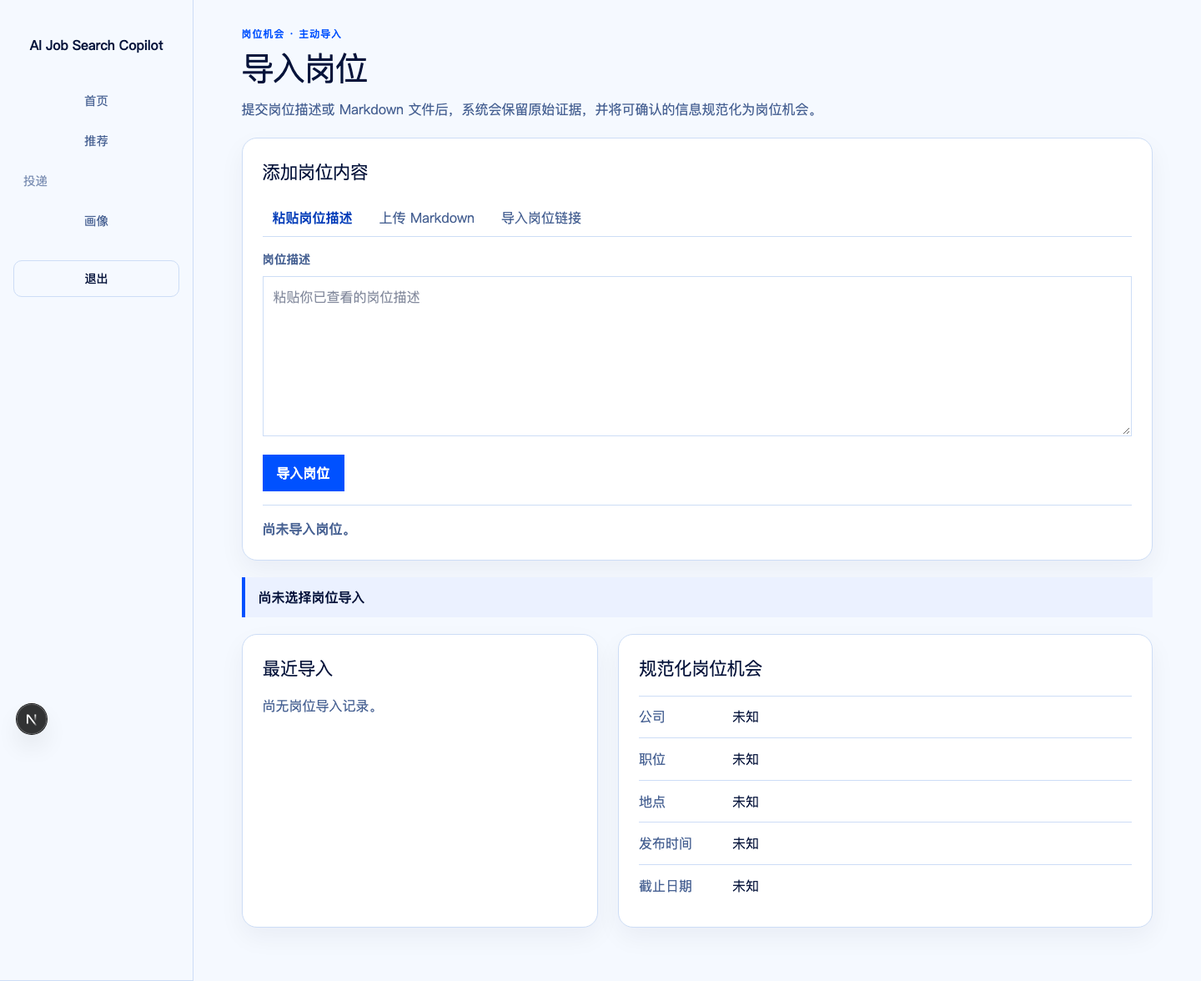
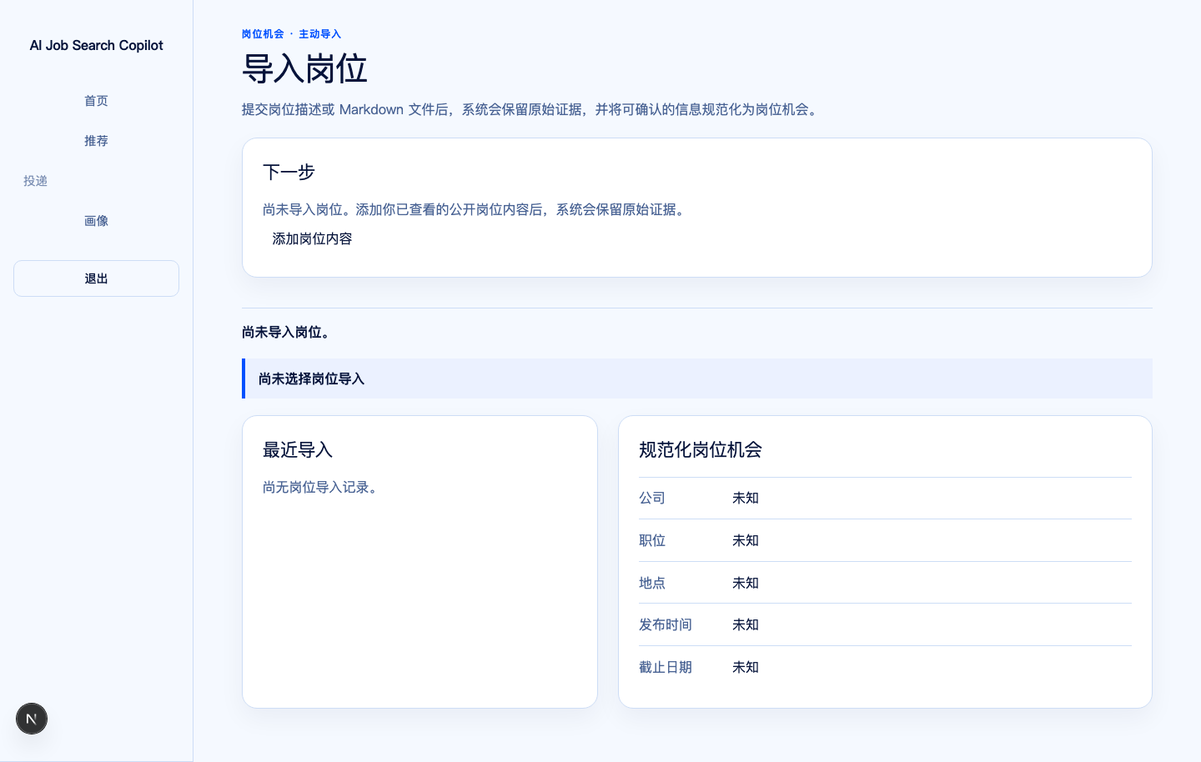
fix(web): harden career lens action flows

diff --git a/apps/web/components/workbench/job-targets-view.tsx b/apps/web/components/workbench/job-targets-view.tsx
@@ -24,6 +24,7 @@ export function JobTargetsView({ initialOverview }: { initialOverview: JobTarget
   const [draft, setDraft] = useState<TargetDraft>(emptyDraft);
   const [priority, setPriority] = useState<"primary" | "secondary">("primary");
   const [editingTargetId, setEditingTargetId] = useState<string | null>(null);
+  const [isCreating, setIsCreating] = useState(false);
   const [message, setMessage] = useState("");
   const [isSaving, setIsSaving] = useState(false);
   const editingTarget = overview.targets.find((target) => target.targetId === editingTargetId) ?? null;
@@ -33,8 +34,12 @@ export function JobTargetsView({ initialOverview }: { initialOverview: JobTarget
   const selectedPriority = editingTarget ? priority : priority === "primary" && primaryUnavailable ? secondaryUnavailable ? null : "secondary" : priority === "secondary" && secondaryUnavailable ? primaryUnavailable ? null : "primary" : priority;
   const noAvailableSlot = !editingTarget && selectedPriority === null;
   function updateDraft<Key extends keyof TargetDraft>(key: Key, value: TargetDraft[Key]) { setDraft((previous) => ({ ...previous, [key]: value })); }
-  function selectSuggestion(roleFamily: string) { setDraft((previous) => ({ ...previous, roleFamily })); setEditingTargetId(null); setMessage(""); }
-  function editTarget(target: JobTarget) { setDraft(draftFrom(target.constraints)); setPriority(target.priority); setEditingTargetId(target.targetId); setMessage(""); }
+  const isEditing = editingTarget !== null;
+  const isFormVisible = isCreating || isEditing;
+  function selectSuggestion(roleFamily: string) { setDraft((previous) => ({ ...previous, roleFamily })); setEditingTargetId(null); setIsCreating(true); setMessage(""); }
+  function startCreating() { setDraft(emptyDraft); setPriority(primaryUnavailable ? "secondary" : "primary"); setEditingTargetId(null); setIsCreating(true); setMessage(""); }
+  function cancelEditing() { setDraft(emptyDraft); setPriority("primary"); setEditingTargetId(null); setIsCreating(false); setMessage(""); }
+  function editTarget(target: JobTarget) { setDraft(draftFrom(target.constraints)); setPriority(target.priority); setEditingTargetId(target.targetId); setIsCreating(false); setMessage(""); }
   async function submit(event: FormEvent<HTMLFormElement>) {
     event.preventDefault();
     if (noAvailableSlot) { setMessage("主目标和两个次目标均已设置。如需新增，请先停用或修改已有目标。"); return; }
@@ -49,7 +54,7 @@ export function JobTargetsView({ initialOverview }: { initialOverview: JobTarget
       if (!response.ok) { setMessage(response.status === 409 ? "目标已在其他位置更新，请刷新后重试。" : "暂时无法保存求职目标，请稍后重试。"); return; }
       const nextOverview = JobTargetOverviewSchema.safeParse(await response.json());
       if (!nextOverview.success) { setMessage("暂时无法保存求职目标，请稍后重试。"); return; }
-      setOverview(nextOverview.data); setEditingTargetId(null); setDraft(emptyDraft); setPriority("primary"); setMessage("求职目标已保存。");
+      setOverview(nextOverview.data); setEditingTargetId(null); setIsCreating(false); setDraft(emptyDraft); setPriority("primary"); setMessage("求职目标已保存。");
     } catch { setMessage("暂时无法保存求职目标，请稍后重试。"); } finally { setIsSaving(false); }
   }
   async function deactivate(target: JobTarget) {
@@ -59,20 +64,21 @@ export function JobTargetsView({ initialOverview }: { initialOverview: JobTarget
       if (!response.ok) { setMessage(response.status === 409 ? "目标已在其他位置更新，请刷新后重试。" : "暂时无法停用求职目标，请稍后重试。"); return; }
       const nextOverview = JobTargetOverviewSchema.safeParse(await response.json());
       if (!nextOverview.success) { setMessage("暂时无法停用求职目标，请稍后重试。"); return; }
-      setOverview(nextOverview.data); if (editingTargetId === target.targetId) { setEditingTargetId(null); setDraft(emptyDraft); } setMessage("求职目标已停用。");
+      setOverview(nextOverview.data); if (editingTargetId === target.targetId) { setEditingTargetId(null); setIsCreating(false); setDraft(emptyDraft); } setMessage("求职目标已停用。");
     } catch { setMessage("暂时无法停用求职目标，请稍后重试。"); } finally { setIsSaving(false); }
   }
   return <main aria-label="求职目标" className="container profile-main job-targets-main">
     <section aria-labelledby="job-targets-title" className="profile-intro"><p className="workbench-kicker">求职画像 · 目标确认</p><h1 id="job-targets-title">确认你的求职目标</h1><p>设置一个主目标与最多两个次目标；系统会据此筛选岗位机会，但不会代表你执行外部行动。</p></section>
     <section aria-label="候选方向证据" className="job-targets-section job-target-suggestions"><h2 id="job-target-suggestions-title">候选岗位方向</h2><p>候选岗位方向只会预填表单。请核对建议依据并手动确认后再保存。</p><ol className="job-target-suggestion-list">{overview.suggestions.slice(0, 5).map((suggestion) => <li key={suggestion.suggestionId}><article><h3>{suggestion.roleFamily}</h3><p>{suggestion.rationale}</p><strong>建议依据</strong><ul>{suggestion.evidence.map((evidence) => <li key={`${evidence.factId}-${evidence.revisionId}`}>{evidence.label}</li>)}</ul><button className="workbench-touch-target" onClick={() => selectSuggestion(suggestion.roleFamily)} type="button">使用 {suggestion.roleFamily} 建议</button></article></li>)}</ol></section>
-    <section aria-labelledby="job-target-form-title" className="job-targets-section"><h2 id="job-target-form-title">{editingTarget ? `修改 ${editingTarget.constraints.roleFamily}` : "手动确认求职目标"}</h2>{noAvailableSlot ? <p className="profile-status" role="status">主目标和两个次目标均已设置。如需新增，请先停用或修改已有目标。</p> : null}<form className="job-target-form" onSubmit={submit}>
+    <section aria-label="目标下一行动" className="job-targets-section job-target-next-action"><h2>下一步</h2><p>{overview.targets.length ? "核对已确认目标，或新增一个可用目标位置。" : "尚未保存目标。先新增一个主目标，系统才能据此筛选岗位机会。"}</p>{noAvailableSlot ? <p className="profile-status" role="status">主目标和两个次目标均已设置。如需新增，请先停用或修改已有目标。</p> : null}<button className="workbench-touch-target" disabled={noAvailableSlot} onClick={startCreating} type="button">新增求职目标</button></section>
+    {isFormVisible ? <section aria-labelledby="job-target-form-title" className="job-targets-section"><h2 id="job-target-form-title">{editingTarget ? `修改 ${editingTarget.constraints.roleFamily}` : "手动确认求职目标"}</h2>{noAvailableSlot ? <p className="profile-status" role="status">主目标和两个次目标均已设置。如需新增，请先停用或修改已有目标。</p> : null}<form className="job-target-form" onSubmit={submit}>
       <fieldset><legend>目标优先级</legend><label><input checked={selectedPriority === "primary"} disabled={primaryUnavailable} name="priority" onChange={() => setPriority("primary")} type="radio" value="primary" /> 主目标</label><label><input checked={selectedPriority === "secondary"} disabled={secondaryUnavailable} name="priority" onChange={() => setPriority("secondary")} type="radio" value="secondary" /> 次目标</label></fieldset>
       <label>目标岗位方向<input onChange={(event) => updateDraft("roleFamily", event.target.value)} required value={draft.roleFamily} /></label><label>资历级别<input onChange={(event) => updateDraft("seniority", event.target.value)} value={draft.seniority} /></label><label>意向地点（用逗号分隔）<input onChange={(event) => updateDraft("locations", event.target.value)} value={draft.locations} /></label>
       <label>工作方式<select aria-label="工作方式" multiple onChange={(event) => updateDraft("workModes", Array.from(event.currentTarget.selectedOptions, (option) => option.value as JobTargetConstraints["workModes"][number]))} value={draft.workModes}>{Object.entries(workModeLabels).map(([value, label]) => <option key={value} value={value}>{label}</option>)}</select></label><label>是否接受搬迁<select onChange={(event) => updateDraft("relocation", event.target.value as TargetDraft["relocation"])} value={draft.relocation}>{Object.entries(relocationLabels).map(([value, label]) => <option key={value} value={value}>{label}</option>)}</select></label>
       <div className="job-target-salary-fields"><label>最低薪资<input inputMode="numeric" min="0" onChange={(event) => updateDraft("minimumSalary", event.target.value)} type="number" value={draft.minimumSalary} /></label><label>最高薪资<input inputMode="numeric" min="0" onChange={(event) => updateDraft("maximumSalary", event.target.value)} type="number" value={draft.maximumSalary} /></label><label>薪资周期<select onChange={(event) => updateDraft("salaryPeriod", event.target.value as TargetDraft["salaryPeriod"])} value={draft.salaryPeriod}><option value="month">月</option><option value="year">年</option></select></label><label>薪资币种<select onChange={(event) => updateDraft("salaryCurrency", event.target.value)} value={draft.salaryCurrency}><option value="CNY">CNY</option><option value="USD">USD</option><option value="HKD">HKD</option></select></label></div>
       <label>意向行业（用逗号分隔）<input onChange={(event) => updateDraft("industries", event.target.value)} value={draft.industries} /></label><fieldset><legend>不可接受条件</legend><label>不接受的公司（用逗号分隔）<input onChange={(event) => updateDraft("excludedCompanies", event.target.value)} value={draft.excludedCompanies} /></label><label>不接受的行业（用逗号分隔）<input onChange={(event) => updateDraft("excludedIndustries", event.target.value)} value={draft.excludedIndustries} /></label><label><input checked={draft.excludeOutsourcing} onChange={(event) => updateDraft("excludeOutsourcing", event.target.checked)} type="checkbox" /> 不接受外包</label><label><input checked={draft.excludeDispatch} onChange={(event) => updateDraft("excludeDispatch", event.target.checked)} type="checkbox" /> 不接受派遣</label><label><input checked={draft.excludeHeadhunter} onChange={(event) => updateDraft("excludeHeadhunter", event.target.checked)} type="checkbox" /> 不接受猎头</label><label>其他不可接受条件（用逗号分隔）<input onChange={(event) => updateDraft("otherDealBreakers", event.target.value)} value={draft.otherDealBreakers} /></label></fieldset>
-      <button className="profile-upload-button workbench-touch-target" disabled={isSaving || noAvailableSlot} type="submit">{editingTarget ? "保存修改" : noAvailableSlot ? "保存求职目标" : selectedPriority === "primary" ? "保存主目标" : "保存次目标"}</button>
-    </form>{message ? <p aria-live="polite" className="profile-status" role="status">{message}</p> : null}</section>
+      <div className="profile-fact-actions"><button className="profile-upload-button workbench-touch-target" disabled={isSaving || noAvailableSlot} type="submit">{editingTarget ? "保存修改" : noAvailableSlot ? "保存求职目标" : selectedPriority === "primary" ? "保存主目标" : "保存次目标"}</button><button className="workbench-touch-target" disabled={isSaving} onClick={cancelEditing} type="button">{isEditing ? "取消修改" : "取消新增"}</button></div>
+    </form>{message ? <p aria-live="polite" className="profile-status" role="status">{message}</p> : null}</section> : message ? <p aria-live="polite" className="profile-status" role="status">{message}</p> : null}
     <section aria-label="已确认目标台账" className="job-targets-section job-target-ledger"><h2 id="job-target-history-title">已确认目标与历史</h2>{overview.targets.length ? <ol className="job-target-history-list">{overview.targets.map((target) => <li key={target.targetId}><article><div><strong>{target.constraints.roleFamily}</strong><span>{targetStatus(target)}</span></div><p>版本 {target.version} · {target.constraints.seniority ?? "未限定资历"}</p><p>{target.constraints.locations.length ? target.constraints.locations.join("、") : "地点未限定"} · {target.constraints.workModes.map((mode) => workModeLabels[mode]).join("、") || "工作方式未限定"}</p>{target.state === "active" ? <div className="profile-fact-actions"><a aria-label={`维护 ${target.constraints.roleFamily} 的目标公司 Watchlist`} className="workbench-touch-target job-target-watchlist-link" href={`/profile/targets/${target.targetId}/watchlist`}>维护目标公司 Watchlist</a><button aria-label={`修改 ${target.constraints.roleFamily}`} className="workbench-touch-target" onClick={() => editTarget(target)} type="button">修改</button><button aria-label={`停用 ${target.constraints.roleFamily}`} className="workbench-touch-target" disabled={isSaving} onClick={() => void deactivate(target)} type="button">停用</button></div> : null}</article></li>)}</ol> : <p className="profile-next-step">尚未保存求职目标。</p>}</section>
   </main>;
 }

diff --git a/apps/web/e2e/career-lens-acceptance.spec.ts b/apps/web/e2e/career-lens-acceptance.spec.ts
@@ -1,4 +1,5 @@
 import { expect, test, type APIRequestContext, type Page } from "@playwright/test";
+import { careerLensCaptureDirectory } from "../lib/career-lens-capture";
 
 const apiBaseUrl = process.env.E2E_API_BASE_URL ?? "http://127.0.0.1:3121";
 const devAuthSecret = "issue-2-e2e-dev-auth-shared-secret";
@@ -13,15 +14,21 @@ const authenticatedRoutes = [
   "/profile/model-connection",
 ] as const;
 
-function screenshotPath(route: string, project: string): string {
+function screenshotPath(route: string, project: string): string | null {
   const filename = `${route === "/" ? "marketing" : route.slice(1).replaceAll("/", "-")}-${project.replaceAll(" ", "-").toLowerCase()}.png`;
-  const phase = process.env.CAREER_LENS_CAPTURE === "after" ? "after" : "before";
+  const phase = careerLensCaptureDirectory(process.env.CAREER_LENS_CAPTURE);
+  if (!phase) return null;
   return `../../docs/qa/issue-66/screenshots/${phase}/${filename}`;
 }
 
-function fixtureScreenshotPath(name: string, project: string): string {
-  const phase = process.env.CAREER_LENS_CAPTURE === "after" ? "after" : "before";
+function fixtureScreenshotPath(name: string, project: string): string | null {
+  const phase = careerLensCaptureDirectory(process.env.CAREER_LENS_CAPTURE);
+  if (!phase) return null;
   return `../../docs/qa/issue-66/screenshots/${phase}/${name}-${project.replaceAll(" ", "-").toLowerCase()}.png`;
+}
+
+async function capture(page: Page, path: string | null): Promise<void> {
+  if (path) await page.screenshot({ path, fullPage: true });
 }
 
 async function createWatchlistFixture(request: APIRequestContext, project: string): Promise<{ token: string; targetId: string }> {
@@ -33,7 +40,7 @@ async function createWatchlistFixture(request: APIRequestContext, project: strin
   const target = await request.post(`${apiBaseUrl}/v1/job-targets`, {
     headers: { authorization: `Bearer ${token}` },
     data: { priority: "primary", constraints: {
-      roleFamily: "职业透镜验收工程师", seniority: "中级", locations: ["上海"], workModes: ["hybrid"], relocation: "not_willing", salary: null, industries: [],
+      roleFamily: "平台工程师", seniority: "中级", locations: ["上海"], workModes: ["hybrid"], relocation: "not_willing", salary: null, industries: [],
       dealBreakers: { excludedCompanies: [], excludedIndustries: [], excludeOutsourcing: false, excludeDispatch: false, excludeHeadhunter: false, other: [] },
     } },
   });
@@ -41,7 +48,7 @@ async function createWatchlistFixture(request: APIRequestContext, project: strin
   const targetId = (await target.json() as { targets: Array<{ targetId: string; priority: string }> }).targets.find((entry) => entry.priority === "primary")!.targetId;
   const source = await request.post(`${apiBaseUrl}/v1/job-targets/${targetId}/company-watchlist/items`, {
     headers: { authorization: `Bearer ${token}` },
-    data: { expectedVersion: 0, canonicalCompanyName: "职业透镜真实验收来源", careersUrl: "https://boards.greenhouse.io/career-lens-acceptance", allowedDomains: ["boards.greenhouse.io"], sourceNote: "真实 runtime 验收 fixture" },
+    data: { expectedVersion: 0, canonicalCompanyName: "真实验收来源", careersUrl: "https://boards.greenhouse.io/runtime-acceptance", allowedDomains: ["boards.greenhouse.io"], sourceNote: "真实 runtime 验收 fixture" },
   });
   expect(source.status()).toBe(201);
   return { token, targetId };
@@ -77,12 +84,12 @@ test("captures real Alpha routes for the career lens acceptance review", async (
   await page.goto("/");
   await expect(page.getByRole("main")).toBeVisible();
   await page.waitForTimeout(500);
-  await page.screenshot({ path: screenshotPath("/", testInfo.project.name), fullPage: true });
+  await capture(page, screenshotPath("/", testInfo.project.name));
 
   await page.goto("/login?returnTo=%2Fhome");
   await expect(page.getByRole("main")).toBeVisible();
   await page.waitForTimeout(500);
-  await page.screenshot({ path: screenshotPath("/login", testInfo.project.name), fullPage: true });
+  await capture(page, screenshotPath("/login", testInfo.project.name));
 
   await signIn(page);
   for (const route of authenticatedRoutes) {
@@ -90,7 +97,7 @@ test("captures real Alpha routes for the career lens acceptance review", async (
     await expect(page.getByRole("main")).toBeVisible();
     await page.waitForTimeout(500);
     expect(await page.evaluate(() => document.documentElement.scrollWidth <= document.documentElement.clientWidth), `${route} must not overflow at the active viewport`).toBe(true);
-    await page.screenshot({ path: screenshotPath(route, testInfo.project.name), fullPage: true });
+    await capture(page, screenshotPath(route, testInfo.project.name));
   }
 
   testInfo.annotations.push({
@@ -105,12 +112,12 @@ test("captures a seeded real Watchlist route without substituting prototype data
   await page.context().addCookies([{ name: "job_copilot_session", value: fixture.token, domain: "127.0.0.1", path: "/", httpOnly: true, sameSite: "Lax" }]);
   await page.goto(`/profile/targets/${fixture.targetId}/watchlist`);
   await expect(page.getByRole("main", { name: "公司来源台账" })).toBeVisible();
-  await expect(page.getByRole("article", { name: "目标公司来源：职业透镜真实验收来源" })).toBeVisible();
+  await expect(page.getByRole("article", { name: "目标公司来源：真实验收来源" })).toBeVisible();
   await expect(page.evaluate(() => document.documentElement.scrollWidth <= document.documentElement.clientWidth)).resolves.toBe(true);
-  await page.screenshot({ path: fixtureScreenshotPath("profile-targets-watchlist-seeded", testInfo.project.name), fullPage: true });
+  await capture(page, fixtureScreenshotPath("profile-targets-watchlist-seeded", testInfo.project.name));
 });
 
-test("captures real Inbox、导入审核与首次推荐旅程状态", async ({ page, request }, testInfo) => {
+test("captures a real Inbox state from its own review fixture", async ({ page, request }, testInfo) => {
   await page.emulateMedia({ reducedMotion: "reduce" });
   const token = await createCandidateReviewFixture(request, testInfo.project.name);
   await page.context().addCookies([{ name: "job_copilot_session", value: token, domain: "127.0.0.1", path: "/", httpOnly: true, sameSite: "Lax" }]);
@@ -118,14 +125,28 @@ test("captures real Inbox、导入审核与首次推荐旅程状态", async ({ p
   await page.goto("/home");
   await expect(page.getByRole("region", { name: "需要你决定的事项", exact: true })).toBeVisible();
   await expect(page.getByRole("article", { name: "有待确认的画像事实" })).toBeVisible();
-  await expect(page.getByRole("region", { name: "首次推荐旅程" })).toBeVisible();
   await expect(page.evaluate(() => document.documentElement.scrollWidth <= document.documentElement.clientWidth)).resolves.toBe(true);
-  await page.screenshot({ path: fixtureScreenshotPath("home-inbox", testInfo.project.name), fullPage: true });
-  await page.screenshot({ path: fixtureScreenshotPath("home-first-recommendation-journey", testInfo.project.name), fullPage: true });
+  await capture(page, fixtureScreenshotPath("home-inbox", testInfo.project.name));
+});
+
+test("captures the real first-recommendation journey from a separate fresh account", async ({ page }, testInfo) => {
+  await page.emulateMedia({ reducedMotion: "reduce" });
+  await signIn(page);
+
+  await expect(page.getByRole("region", { name: "首次推荐旅程" })).toBeVisible();
+  await expect(page.getByRole("region", { name: "需要你决定的事项", exact: true })).toBeVisible();
+  await expect(page.evaluate(() => document.documentElement.scrollWidth <= document.documentElement.clientWidth)).resolves.toBe(true);
+  await capture(page, fixtureScreenshotPath("home-first-recommendation-journey", testInfo.project.name));
+});
+
+test("captures a real import-review state from its own review fixture", async ({ page, request }, testInfo) => {
+  await page.emulateMedia({ reducedMotion: "reduce" });
+  const token = await createCandidateReviewFixture(request, testInfo.project.name);
+  await page.context().addCookies([{ name: "job_copilot_session", value: token, domain: "127.0.0.1", path: "/", httpOnly: true, sameSite: "Lax" }]);
 
   await page.goto("/profile#candidate-facts");
   await expect(page.getByRole("heading", { name: "待确认事实" })).toBeVisible();
   await expect(page.getByText("TypeScript", { exact: true })).toBeVisible();
   await expect(page.evaluate(() => document.documentElement.scrollWidth <= document.documentElement.clientWidth)).resolves.toBe(true);
-  await page.screenshot({ path: fixtureScreenshotPath("profile-import-review", testInfo.project.name), fullPage: true });
+  await capture(page, fixtureScreenshotPath("profile-import-review", testInfo.project.name));
 });

diff --git a/apps/web/components/workbench/company-watchlist-view.tsx b/apps/web/components/workbench/company-watchlist-view.tsx
@@ -90,12 +90,14 @@ export function CompanyWatchlistView({ initialOverview, initialSourceHealth, ini
   const [sourceCapabilities, setSourceCapabilities] = useState(initialSourceCapabilities);
   const [draft, setDraft] = useState<Draft>(emptyDraft);
   const [editingItemId, setEditingItemId] = useState<string | null>(null);
+  const [isCreating, setIsCreating] = useState(false);
   const [message, setMessage] = useState("");
   const [healthRefreshFailure, setHealthRefreshFailure] = useState<RefreshFailure>(initialHealthRefreshFailed ? "initial" : null);
   const [capabilityRefreshFailure, setCapabilityRefreshFailure] = useState<RefreshFailure>(initialCapabilityRefreshFailed ? "initial" : null);
   const [isSaving, setIsSaving] = useState(false);
   const inactive = overview.target.targetState === "inactive";
   const editingItem = overview.items.find((item) => item.itemId === editingItemId) ?? null;
+  const isFormVisible = isCreating || editingItem !== null;
   const healthRefreshMessage = healthRefreshFailure === "initial" ? initialHealthRefreshMessage : "来源诊断未能更新。请重新加载或刷新页面。";
   const capabilitySources = sourceCapabilities?.sources ?? [];
 
@@ -166,7 +168,7 @@ export function CompanyWatchlistView({ initialOverview, initialSourceHealth, ini
       const parsed = CompanyWatchlistOverviewSchema.safeParse(await response.json());
       if (!parsed.success) { setMessage("暂时无法保存目标公司，请稍后重试。"); return; }
       await applySuccessfulMutation(parsed.data, editingItem ? "目标公司已更新。" : "目标公司已添加。");
-      setDraft(emptyDraft); setEditingItemId(null);
+      setDraft(emptyDraft); setEditingItemId(null); setIsCreating(false);
     } catch {
       setMessage("暂时无法保存目标公司，请稍后重试。");
     } finally {
@@ -191,7 +193,15 @@ export function CompanyWatchlistView({ initialOverview, initialSourceHealth, ini
   }
 
   function startEditing(item: CompanyWatchlistItem) {
-    setDraft(draftFrom(item)); setEditingItemId(item.itemId); setMessage("");
+    setDraft(draftFrom(item)); setEditingItemId(item.itemId); setIsCreating(false); setMessage("");
+  }
+
+  function startCreating() {
+    setDraft(emptyDraft); setEditingItemId(null); setIsCreating(true); setMessage("");
+  }
+
+  function cancelForm() {
+    setDraft(emptyDraft); setEditingItemId(null); setIsCreating(false); setMessage("");
   }
 
   function move(item: CompanyWatchlistItem, direction: -1 | 1) {
@@ -216,7 +226,13 @@ export function CompanyWatchlistView({ initialOverview, initialSourceHealth, ini
       {inactive ? <p className="profile-status" role="status">该求职目标已停用，不能维护 Watchlist。</p> : null}
     </section>
 
-    <section aria-labelledby="company-watchlist-form-title" className="company-watchlist-section">
+    <section aria-label="Watchlist 下一行动" className="company-watchlist-section company-watchlist-next-action">
+      <h2>下一步</h2>
+      <p>{overview.items.length ? "核对已登记来源的优先级和状态，或添加一个新的公开招聘来源。" : "尚未登记目标公司。添加第一个公开来源后，它会成为优先级 01。"}</p>
+      <button className="workbench-touch-target" disabled={inactive || isSaving} onClick={startCreating} type="button">添加目标公司</button>
+    </section>
+
+    {isFormVisible ? <section aria-labelledby="company-watchlist-form-title" className="company-watchlist-section">
       <h2 id="company-watchlist-form-title">{editingItem ? `编辑 ${editingItem.canonicalCompanyName}` : "添加目标公司"}</h2>
       <p className="company-watchlist-notice">{safetyNotice}</p>
       <form className="company-watchlist-form" onSubmit={save}>
@@ -226,11 +242,11 @@ export function CompanyWatchlistView({ initialOverview, initialSourceHealth, ini
         <label>来源备注<textarea disabled={inactive || isSaving} onChange={(event) => updateDraft("sourceNote", event.target.value)} value={draft.sourceNote} /></label>
         <div className="company-watchlist-form-actions">
           <button className="workbench-touch-target" disabled={inactive || isSaving} type="submit">{editingItem ? "保存修改" : "保存目标公司"}</button>
-          {editingItem ? <button className="workbench-touch-target" disabled={isSaving} onClick={() => { setEditingItemId(null); setDraft(emptyDraft); setMessage(""); }} type="button">取消编辑</button> : null}
+          <button className="workbench-touch-target" disabled={isSaving} onClick={cancelForm} type="button">{editingItem ? "取消编辑" : "取消添加"}</button>
         </div>
       </form>
       {message ? <p aria-live="polite" className="profile-status" role="status">{message}</p> : null}
-    </section>
+    </section> : message ? <p aria-live="polite" className="profile-status" role="status">{message}</p> : null}
 
     <section aria-labelledby="company-watchlist-ledger-title" className="company-watchlist-section">
       <h2 id="company-watchlist-ledger-title">已登记来源</h2>

diff --git a/apps/web/components/workbench/job-import-view.tsx b/apps/web/components/workbench/job-import-view.tsx
@@ -44,6 +44,7 @@ function importLabel(item: JobImportSummary): string {
 }
 
 export function JobImportView({ initialImports, initialTargets = [] }: JobImportViewProps) {
+  const [isAdding, setIsAdding] = useState(false);
   const [mode, setMode] = useState<InputMode>("paste");
   const [content, setContent] = useState("");
   const [file, setFile] = useState<File | null>(null);
@@ -166,7 +167,7 @@ export function JobImportView({ initialImports, initialTargets = [] }: JobImport
       setRecentImports((previous) => insertRecent(previous, summary));
       selectImport(summary);
       if (result.import.reused) setAnnouncement("已复用已有岗位导入记录。");
-      setContent(""); setFile(null); setUrl("");
+      setContent(""); setFile(null); setUrl(""); setIsAdding(false);
     });
   }
 
@@ -182,7 +183,12 @@ export function JobImportView({ initialImports, initialTargets = [] }: JobImport
         <p className="workbench-kicker">岗位机会 · 主动导入</p><h1 id="job-import-title">导入岗位</h1>
         <p>提交岗位描述或 Markdown 文件后，系统会保留原始证据，并将可确认的信息规范化为岗位机会。</p>
       </section>
-      <section aria-labelledby="job-import-form-title" className="job-import-panel">
+      <section aria-label="岗位导入下一行动" className="job-import-panel job-import-next-action">
+        <h2>下一步</h2>
+        <p>{recentImports.length ? "选择已有导入核对证据，或添加新的岗位内容。" : "尚未导入岗位。添加你已查看的公开岗位内容后，系统会保留原始证据。"}</p>
+        <button className="workbench-touch-target" onClick={() => setIsAdding(true)} type="button">添加岗位内容</button>
+      </section>
+      {isAdding ? <section aria-labelledby="job-import-form-title" className="job-import-panel">
         <h2 id="job-import-form-title">添加岗位内容</h2>
         <div aria-label="导入方式" className="job-import-tabs" role="tablist">
           <button aria-controls="paste-panel" aria-selected={mode === "paste"} className="workbench-touch-target" id="paste-tab" onClick={() => selectMode("paste")} onKeyDown={(event) => onTabKeyDown(event, "paste")} role="tab" tabIndex={mode === "paste" ? 0 : -1} type="button">粘贴岗位描述</button>
@@ -193,12 +199,12 @@ export function JobImportView({ initialImports, initialTargets = [] }: JobImport
           {mode === "paste" ? <div aria-labelledby="paste-tab" id="paste-panel" role="tabpanel"><label htmlFor="job-description">岗位描述</label><textarea id="job-description" onChange={(event) => setContent(event.target.value)} placeholder="粘贴你已查看的岗位描述" required value={content} /></div>
             : mode === "url" ? <div aria-labelledby="url-tab" id="url-panel" role="tabpanel"><label htmlFor="job-url">岗位链接</label><input id="job-url" onChange={(event) => setUrl(event.target.value)} placeholder="https://..." required type="url" value={url} /><p>仅导入公开、可访问的具体岗位页面。</p></div>
             : <div aria-labelledby="upload-tab" id="upload-panel" role="tabpanel"><label htmlFor="job-markdown">上传 Markdown 岗位文件</label><input accept=".md,text/markdown" id="job-markdown" onChange={(event) => setFile(event.currentTarget.files?.[0] ?? null)} type="file" /><p>仅支持 UTF-8 Markdown，文件最大 512 KiB。</p></div>}
-          <button className="workbench-touch-target job-import-submit" disabled={isPending || (mode === "upload" && !file)} type="submit">{isPending ? "正在导入" : "导入岗位"}</button>
+          <div className="profile-fact-actions"><button className="workbench-touch-target job-import-submit" disabled={isPending || (mode === "upload" && !file)} type="submit">{isPending ? "正在导入" : "导入岗位"}</button><button className="workbench-touch-target" disabled={isPending} onClick={() => { setContent(""); setFile(null); setUrl(""); setIsAdding(false); }} type="button">取消导入</button></div>
         </form>
-        <p aria-live="polite" className="job-import-live" role="status">{message}</p>
-        {announcement && <p aria-live="polite">{announcement}</p>}
-        {pollingMessage && actionState.ok === false && actionState.message && <p>{pollingMessage}</p>}
-      </section>
+      </section> : null}
+      <p aria-live="polite" className="job-import-live" role="status">{message}</p>
+      {announcement && <p aria-live="polite">{announcement}</p>}
+      {pollingMessage && actionState.ok === false && actionState.message && <p>{pollingMessage}</p>}
       <section aria-label="当前导入任务状态" className="job-import-status-panel"><p>{activeImportStatus}</p></section>
       <div className="job-import-columns">
         <section aria-labelledby="recent-job-imports-title" className="job-import-panel"><h2 id="recent-job-imports-title">最近导入</h2>

diff --git a/apps/web/e2e/company-watchlist.spec.ts b/apps/web/e2e/company-watchlist.spec.ts
@@ -47,6 +47,8 @@ test("超长无空格角色名称不会造成 Watchlist 页面横向溢出", asy
 });
 
 async function addCompany(page: Page, company: string, careersUrl: string, domain: string, note = ""): Promise<void> {
+  const addButton = page.getByRole("button", { name: "添加目标公司" });
+  if (await addButton.isVisible()) await addButton.click();
   await page.getByLabel("公司规范名称").fill(company);
   await page.getByLabel("公开招聘入口").fill(careersUrl);
   await page.getByLabel("允许域").fill(domain);
@@ -57,7 +59,8 @@ async function addCompany(page: Page, company: string, careersUrl: string, domai
 
 test("目标公司 Watchlist 可添加、排序、禁用、重载并显示并发冲突", async ({ page, request }, testInfo) => {
   const { token, targetId } = await signInAtWatchlist(page, request, testInfo.project.name);
-  await expect(page.getByText("尚未登记目标公司。添加第一个公开来源后，它会成为优先级 01。")).toBeVisible();
+  await expect(page.getByRole("region", { name: "Watchlist 下一行动" })).toContainText("尚未登记目标公司。添加第一个公开来源后，它会成为优先级 01。");
+  await page.getByRole("button", { name: "添加目标公司" }).click();
   await expect(page.getByText("不要填写账号、密码、Cookie、验证码或绕过登录限制的说明。")).toBeVisible();
 
   await addCompany(page, "曙光云图", "https://careers.aurora.example/jobs", "careers.aurora.example", "优先核验 AI 平台团队");
@@ -103,7 +106,7 @@ test("目标公司 Watchlist 可添加、排序、禁用、重载并显示并发
   await cancel.focus();
   await expect(cancel).toBeFocused();
   await page.keyboard.press("Enter");
-  await expect(page.getByRole("heading", { name: "添加目标公司" })).toBeVisible();
+  await expect(page.getByRole("button", { name: "添加目标公司" })).toBeVisible();
   const controls = page.locator([
     ".company-watchlist-main button:not(:disabled):not([aria-disabled=true]):not([aria-hidden=true]):visible",
     ".company-watchlist-main a[href]:not([aria-disabled=true]):not([aria-hidden=true]):visible",
@@ -117,8 +120,6 @@ test("目标公司 Watchlist 可添加、排序、禁用、重载并显示并发
     return counts;
   }, {}));
   expect(controlsByTag.BUTTON).toBeGreaterThan(0);
-  expect(controlsByTag.INPUT).toBeGreaterThan(0);
-  expect(controlsByTag.TEXTAREA).toBeGreaterThan(0);
   for (let index = 0; index < controlCount; index += 1) {
     const box = await controls.nth(index).boundingBox();
     expect(box?.height).toBeGreaterThanOrEqual(44);

diff --git a/apps/web/app/(workbench)/recommendations/page.tsx b/apps/web/app/(workbench)/recommendations/page.tsx
@@ -48,7 +48,7 @@ export default async function RecommendationsPage({ searchParams = Promise.resol
         {resultError ? <p role="alert">{resultError}</p> : result ? <RecommendationResultSummary result={result} /> : null}
         {sideReadError ? <p role="alert">{sideReadError}</p> : null}
         {runStatus ? <><h2>{runStatus}</h2><Link className="workbench-touch-target" href={`/home?runId=${runId}`}>查看本次推荐</Link></> : null}
-        {!list && !result && !resultError && !runStatus ? <><h2>暂无可处理的推荐</h2><p>完成岗位发现和资格筛选后，这里会显示高度匹配、值得尝试或谨慎考虑的岗位。</p></> : list ? <>
+        {!list && !result && !resultError && !runStatus ? <><h2>暂无可处理的推荐</h2><p>完成岗位发现和资格筛选后，这里会显示高度匹配、值得尝试或谨慎考虑的岗位。</p><section aria-label="推荐下一行动" className="job-import-panel job-import-next-action"><h2>下一步：先建立求职目标</h2><p>建立一个主求职目标，再从首页启动岗位发现；完成资格筛选后，推荐会在这里按证据呈现。</p><Link className="workbench-touch-target" href="/profile/targets">建立求职目标</Link></section></> : list ? <>
           <p aria-label="推荐清单版本">清单版本 {list.sequence} · {list.localDate}</p>
           <ol aria-label="推荐岗位" className="recommendation-list" id="recommendation-list">
             {list.items.map((item) => {

diff --git a/apps/web/components/workbench/workbench-navigation.test.tsx b/apps/web/components/workbench/workbench-navigation.test.tsx
@@ -10,7 +10,8 @@ import { WorkbenchNavigation } from "./workbench-navigation";
 it("renders the fixed 首页、推荐、投递、画像 order and only links real destinations", () => {
   render(<WorkbenchNavigation />);
 
-  expect(screen.getByRole("navigation")).toHaveAccessibleName("职业透镜工作台导航");
+  expect(screen.getByRole("navigation")).toHaveAccessibleName("求职工作台导航");
+  expect(screen.getByRole("navigation")).not.toHaveAccessibleName(/职业透镜/u);
   expect(screen.getByRole("navigation")).toHaveClass("workbench-navigation-list");
   expect(screen.getByRole("link", { name: "画像" })).toHaveAttribute("aria-current", "page");
   expect(screen.getByRole("link", { name: "首页" })).not.toHaveAttribute("aria-current");

diff --git a/apps/web/app/(workbench)/recommendations/page.test.tsx b/apps/web/app/(workbench)/recommendations/page.test.tsx
@@ -49,6 +49,8 @@ describe("RecommendationsPage", () => {
     expect(screen.getByRole("main", { name: "证据推荐清单" })).toBeInTheDocument();
     expect(screen.getByRole("heading", { name: "推荐清单" })).toBeInTheDocument();
     expect(screen.getByText("暂无可处理的推荐")).toBeInTheDocument();
+    expect(screen.getByRole("region", { name: "推荐下一行动" })).toHaveTextContent("先建立求职目标");
+    expect(screen.getByRole("link", { name: "建立求职目标" })).toHaveAttribute("href", "/profile/targets");
     expect(screen.queryByText(/%/)).not.toBeInTheDocument();
   });
 
